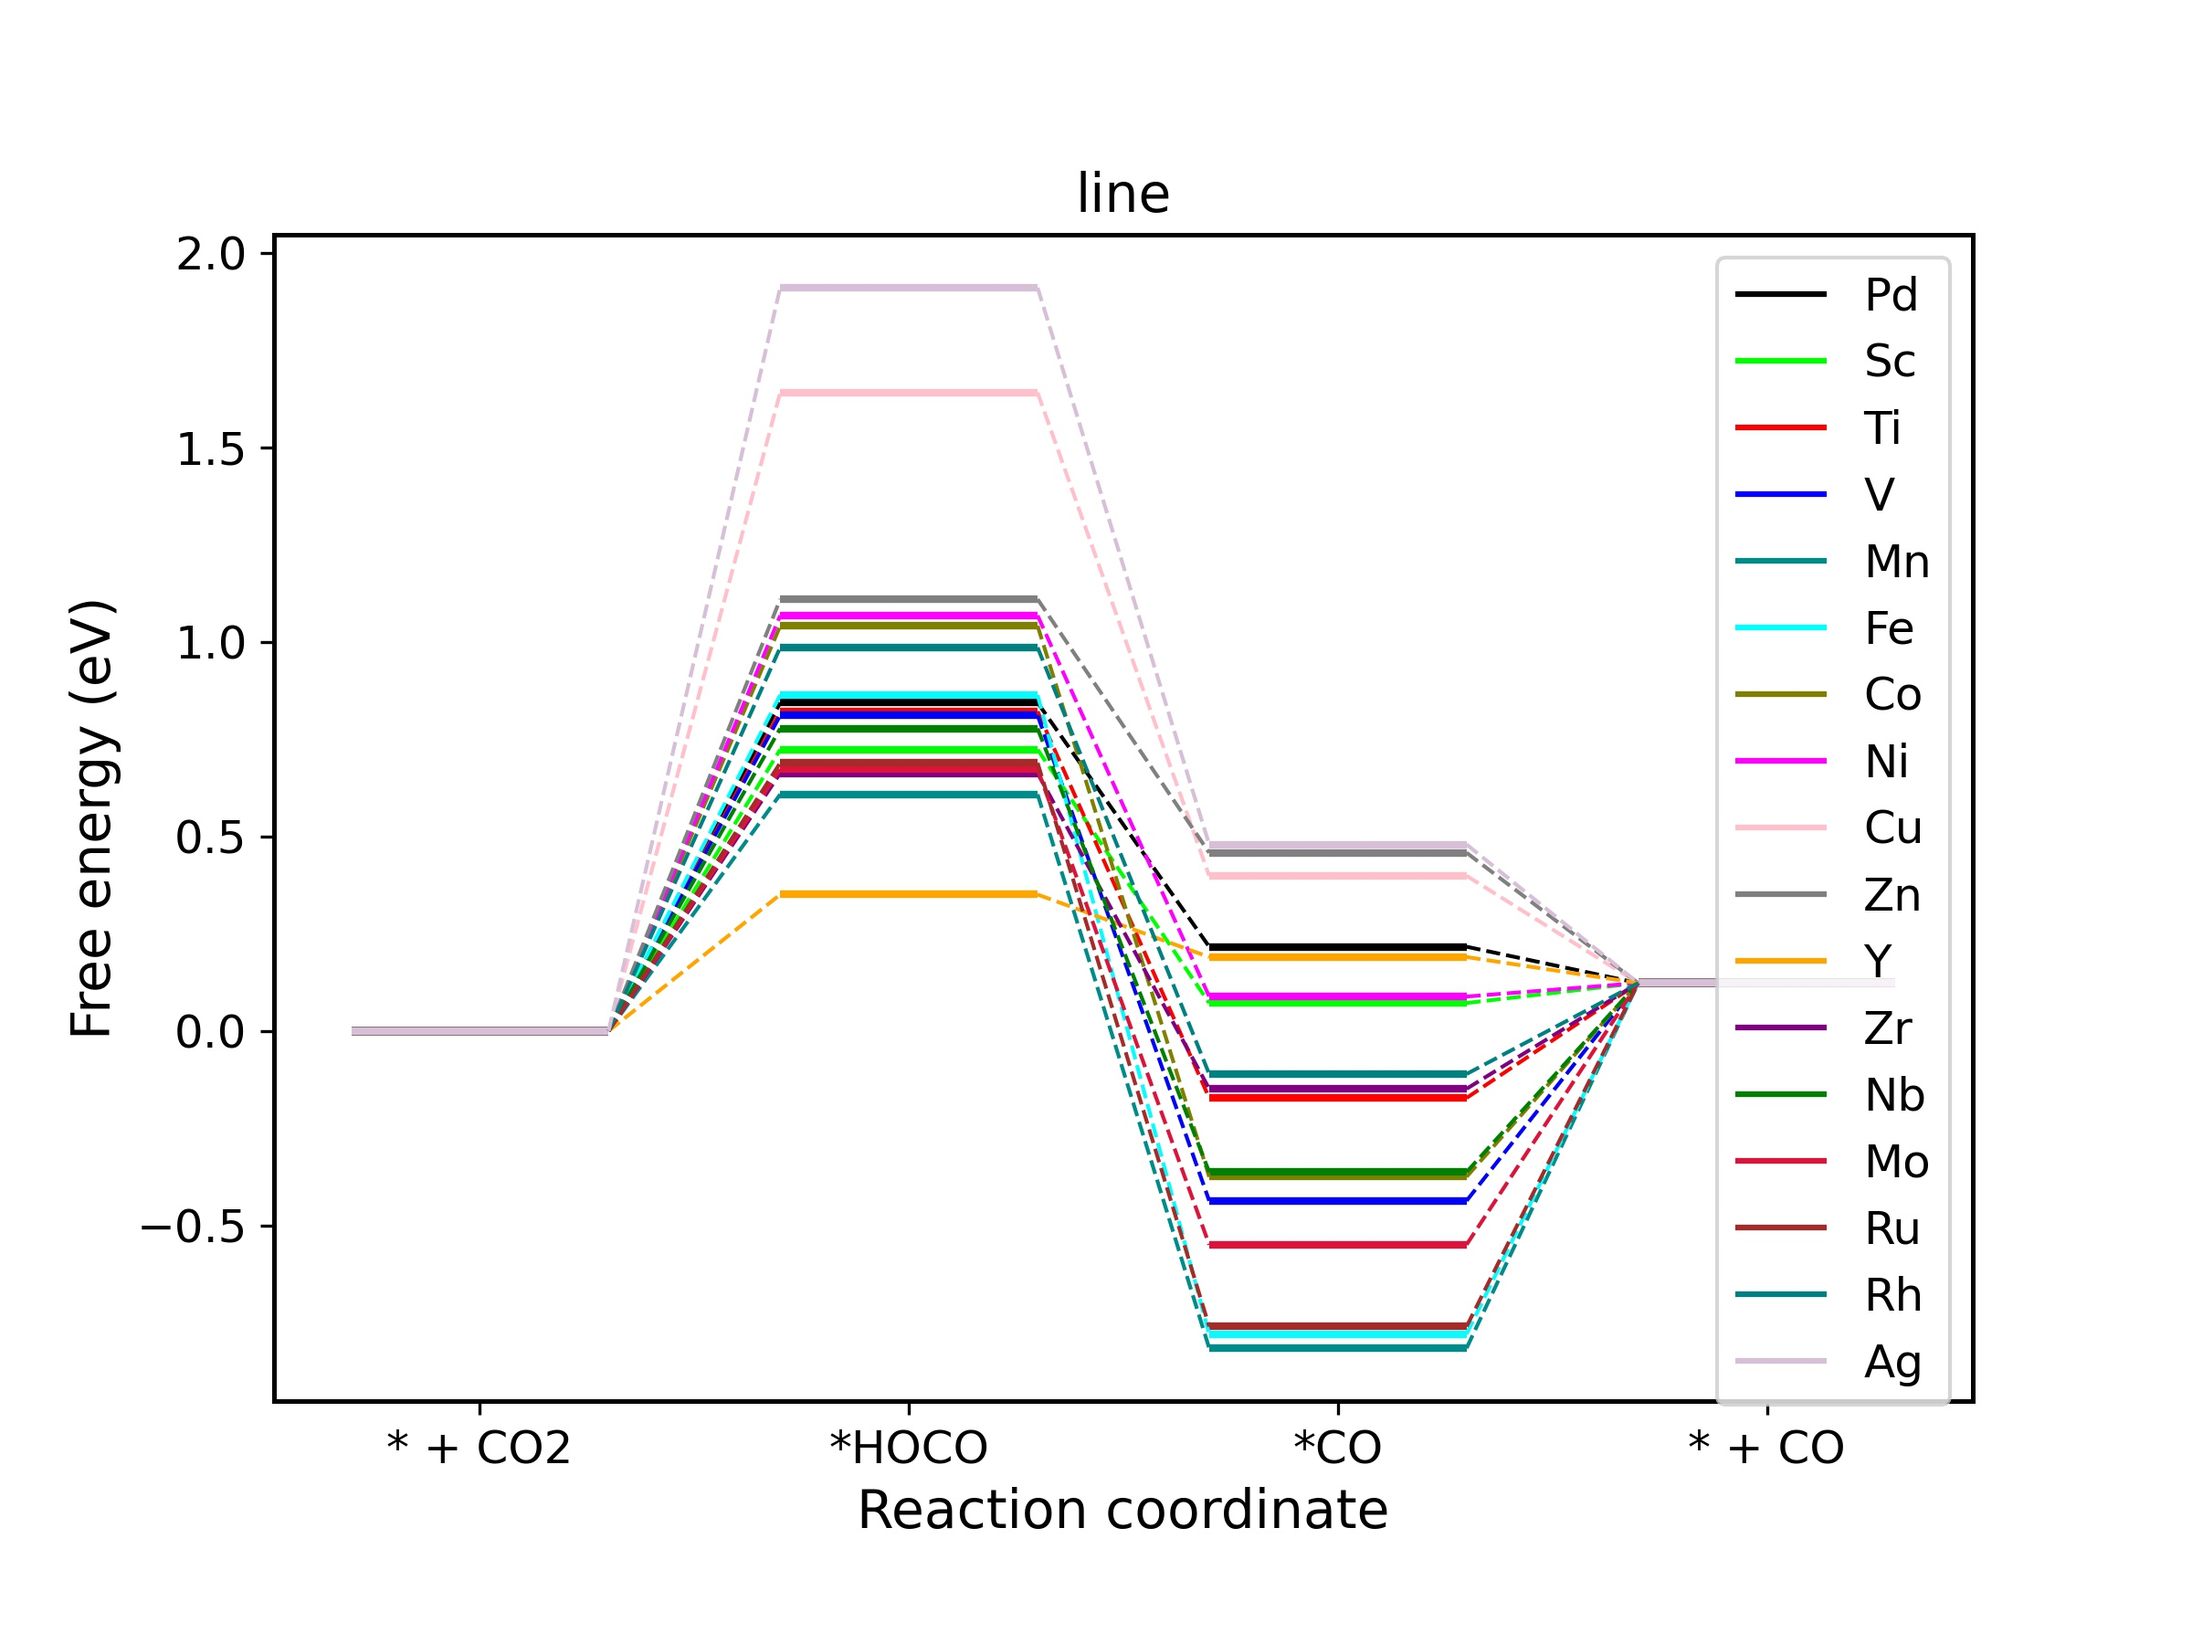
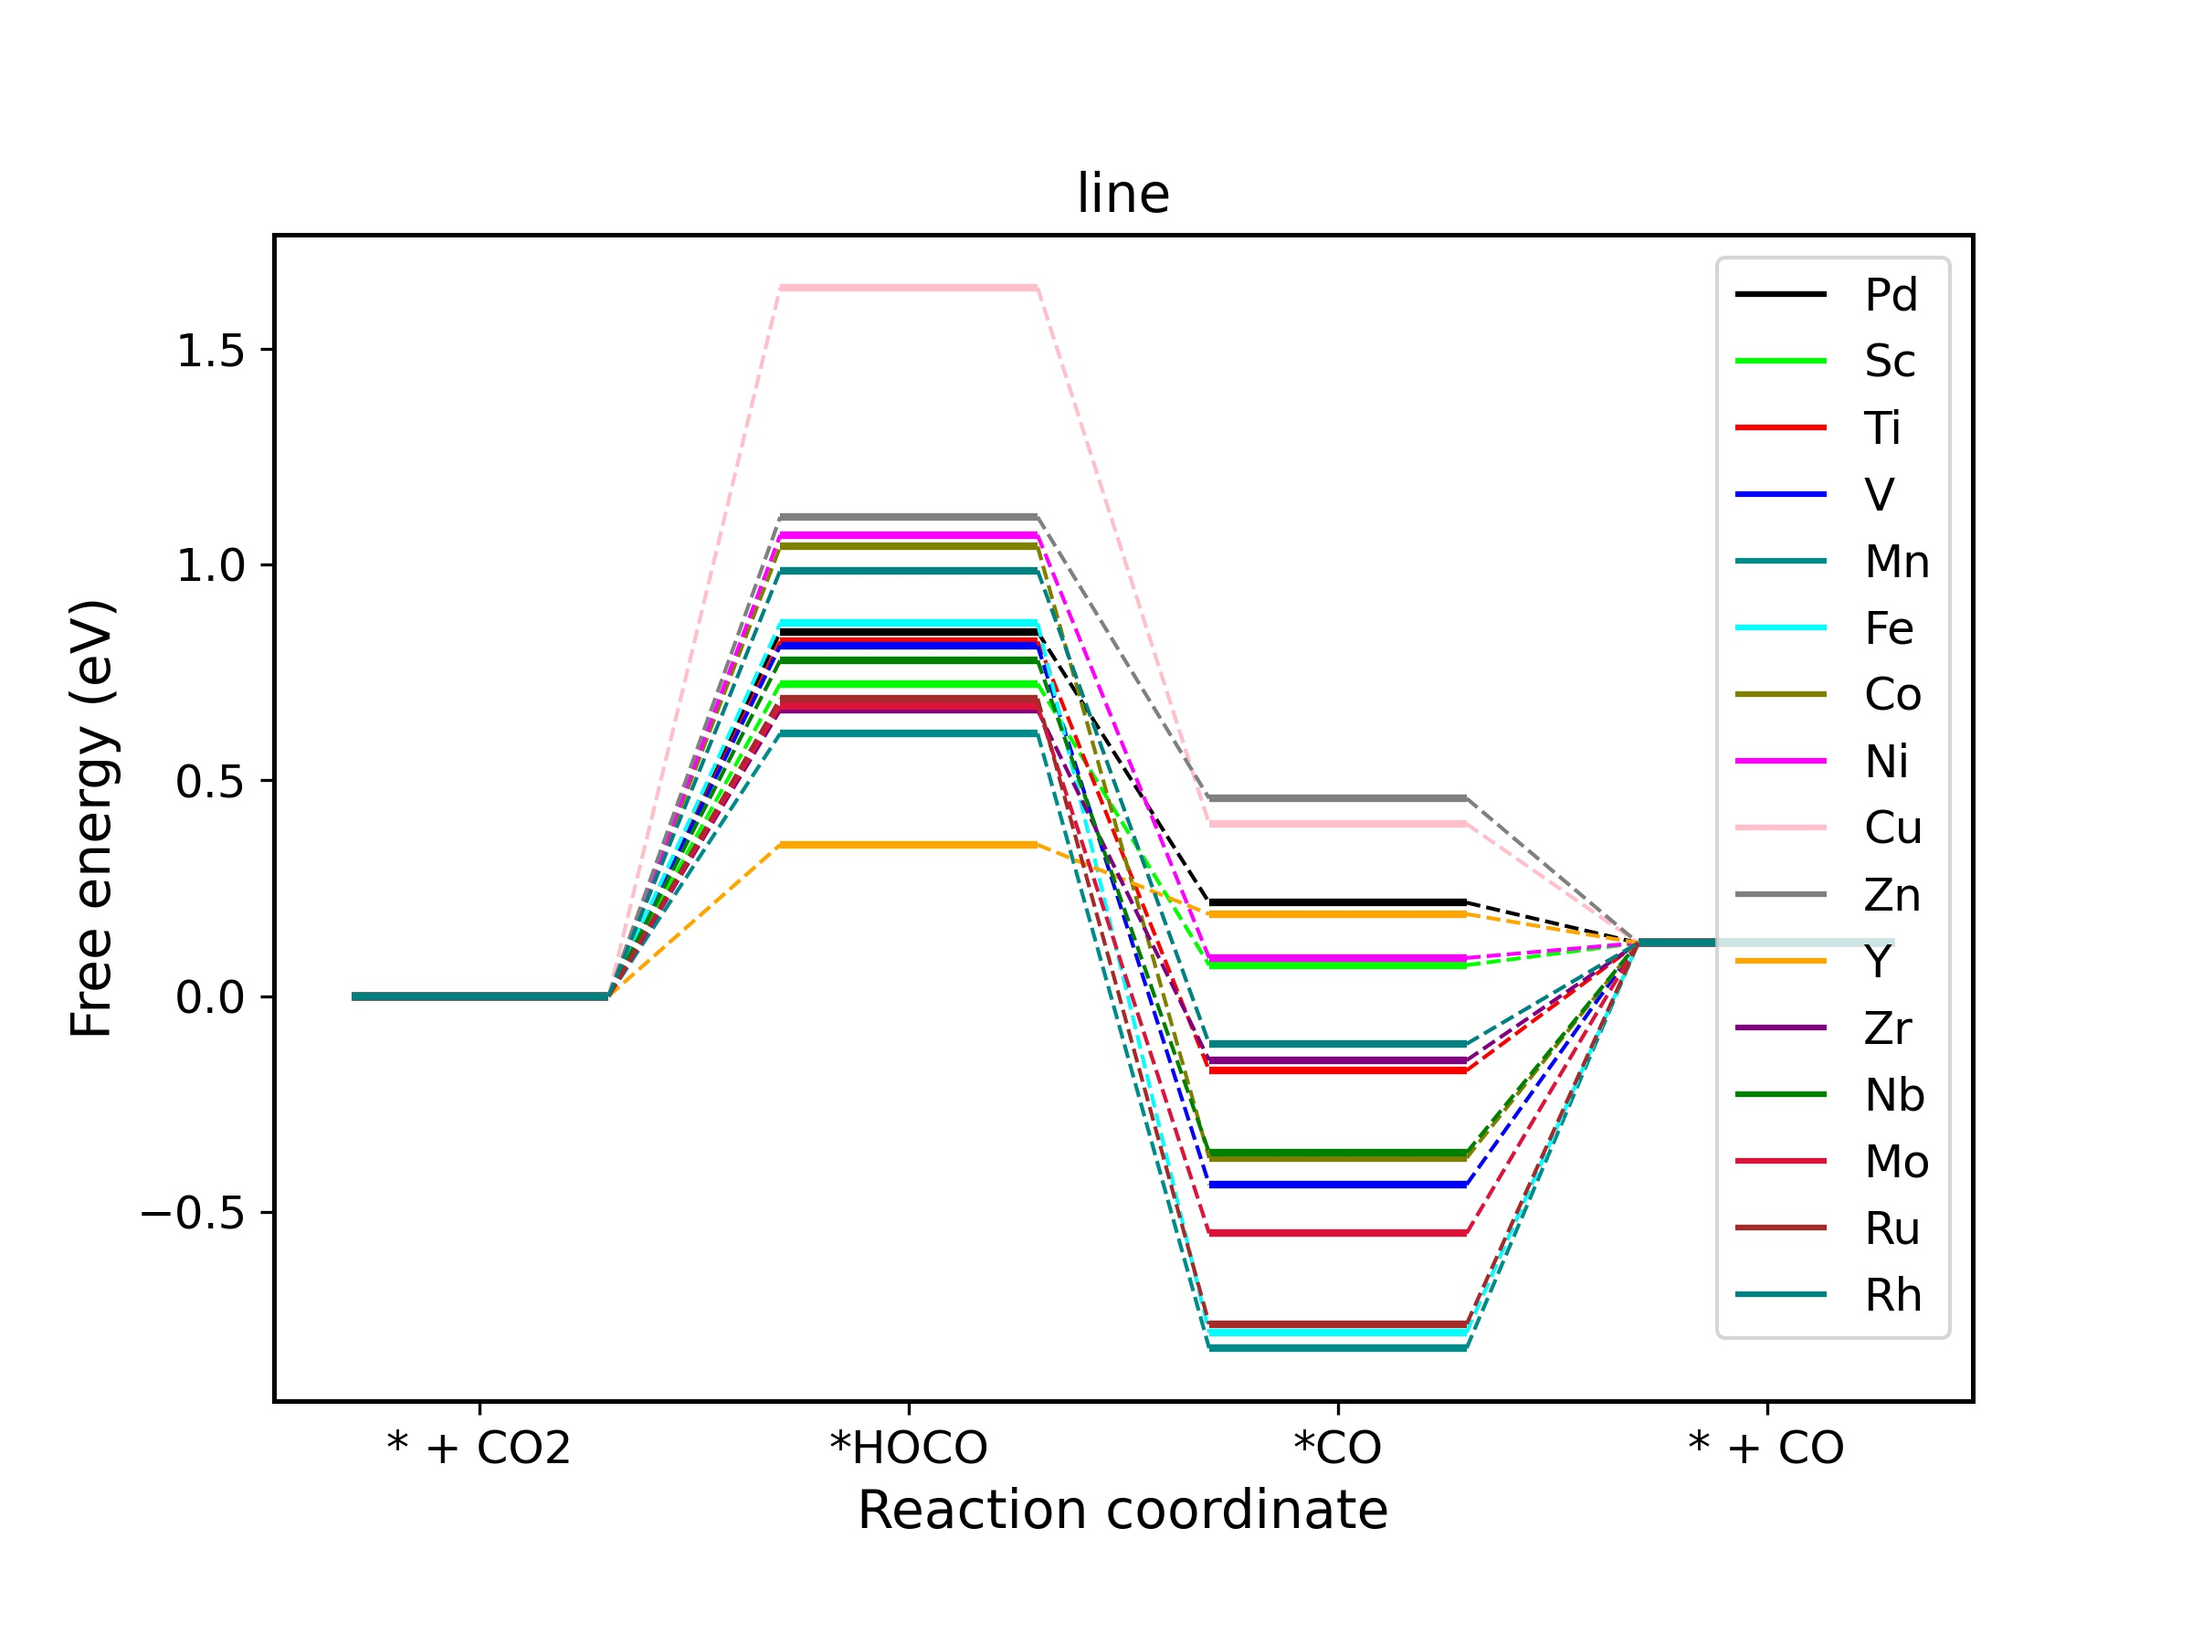
updated data

diff --git a/plotpackage/myproject/formation_energy_multi_plot.py b/plotpackage/myproject/formation_energy_multi_plot.py
@@ -16,12 +16,12 @@ min_col = 1 #1st column in excel
 max_col = 7 #5th column in excel
 
 #change it only for excel
-sheet = 'Formation Energy' #Sheet1 by defaut
+sheet = 'formation_energy' #Sheet1 by defaut
 min_row = 1 #1st column in excel
-max_row = 10 #9st column in excel
+max_row = 17 #9st column in excel
 
 #saved figure name
-figName1 = '../pictures/Formation_energy_' + sheet + '.jpg'  #free energy diagram name
+figName1 = '../pictures/Formation_energy_new_' + sheet + '.jpg'  #free energy diagram name
 
 ############ plot free energy diagram ###############
 colorList = ['k', 'lime', 'r', 'b', 'darkcyan', 'cyan', 'olive', 'magenta', 'pink', 'gray', 'orange', 'purple', 'g']
@@ -38,7 +38,7 @@ plt.legend(typeNames, framealpha=0.5, fontsize=12)
 plt.axhline(y=0, color='r', linestyle='--')
 
 # plt.xlim([-10, 8])
-plt.ylim([-1.6, 1])
+plt.ylim([-3, 2])
 plt.xlabel('Doping elements', fontsize=14)
 plt.ylabel('Formation energy (eV/atom)', fontsize=14)
 plt.title(sheet, fontsize=14)

diff --git a/plotpackage/myproject/CO2RR_plot_binding_energy_multi.py b/plotpackage/myproject/CO2RR_plot_binding_energy_multi.py
@@ -21,7 +21,7 @@ min_col = 1 #1st column in excel
 max_col = 5 #5th column in excel
 
 #change it only for excel
-sheet = 'line' #Sheet1 by defaut
+sheet = 'triangle' #Sheet1 by defaut
 # min_row = 40 #1st column in excel
 # max_row = 57 #9st column in excel
 min_row = 1 #1st column in excel
@@ -44,8 +44,8 @@ del_ele = []
 # del_ele += ['Sc', 'Ti', 'V', 'Mn', 'Zn', 'Y', 'Zr', 'Nb', 'Mo'] #del double bonds for parallelogram
 # del_ele = ['Sc', 'Zn', 'Y', 'Zr'] #remove distortion for overlayer
 # del_ele += ['Sc', 'Ti', 'V', 'Mn', 'Fe', 'Co', 'Ni', 'Y', 'Zr'] #del double bonds for overlayer
-# del_ele = ['Sc', 'Zn', 'Y', 'Ag', 'Zr'] #remove distortion for triangle
-del_ele = ['Ag', 'Y'] #remove distortion for line
+del_ele = ['Y',] #remove distortion for triangle
+# del_ele = ['Ag', ] #remove distortion for line
 del_rows = [observationName.index(each)+2 for each in del_ele]
 ### del_rows = [10, 12, 13, 18]  #delete according to rows in excel
 del_list = [x -2 for x in del_rows]

diff --git a/plotpackage/myproject/CO2RR_plot.py b/plotpackage/myproject/CO2RR_plot.py
@@ -21,7 +21,7 @@ min_col = 1 #1st column in excel
 max_col = 5 #5th column in excel
 
 #change it only for excel
-sheet = 'line' #Sheet1 by defaut
+sheet = 'triangle' #Sheet1 by defaut
 # min_row = 20 #1st column in excel
 # max_row = 37 #9st column in excel
 min_row = 1 #1st column in excel
@@ -46,7 +46,8 @@ del_ele = []
 # del_ele += ['Sc', 'Ti', 'V', 'Mn', 'Zn', 'Y', 'Zr', 'Nb', 'Mo'] #del double bonds for parallelogram
 # del_ele = ['Sc', 'Zn', 'Y', 'Ag', 'Zr', 'Cu'] ##'Fe', 'Ni', 'Co' #remove distortion for overlayer
 # del_ele += ['Sc', 'Ti', 'V', 'Mn', 'Fe', 'Co', 'Ni', 'Y', 'Zr'] #del double bonds for overlayer
-# del_ele = ['Sc', 'Zn', 'Y', 'Ag', 'Zr'] #remove distortion for triangle
+del_ele = ['Y',] #remove distortion for triangle
+# del_ele = ['Ag', ] #remove distortion for line
 del_rows = [observationName.index(each)+2 for each in del_ele]
 ### del_rows = [10, 12, 13, 18]  #delete according to rows in excel
 del_list = [x -2 for x in del_rows]
